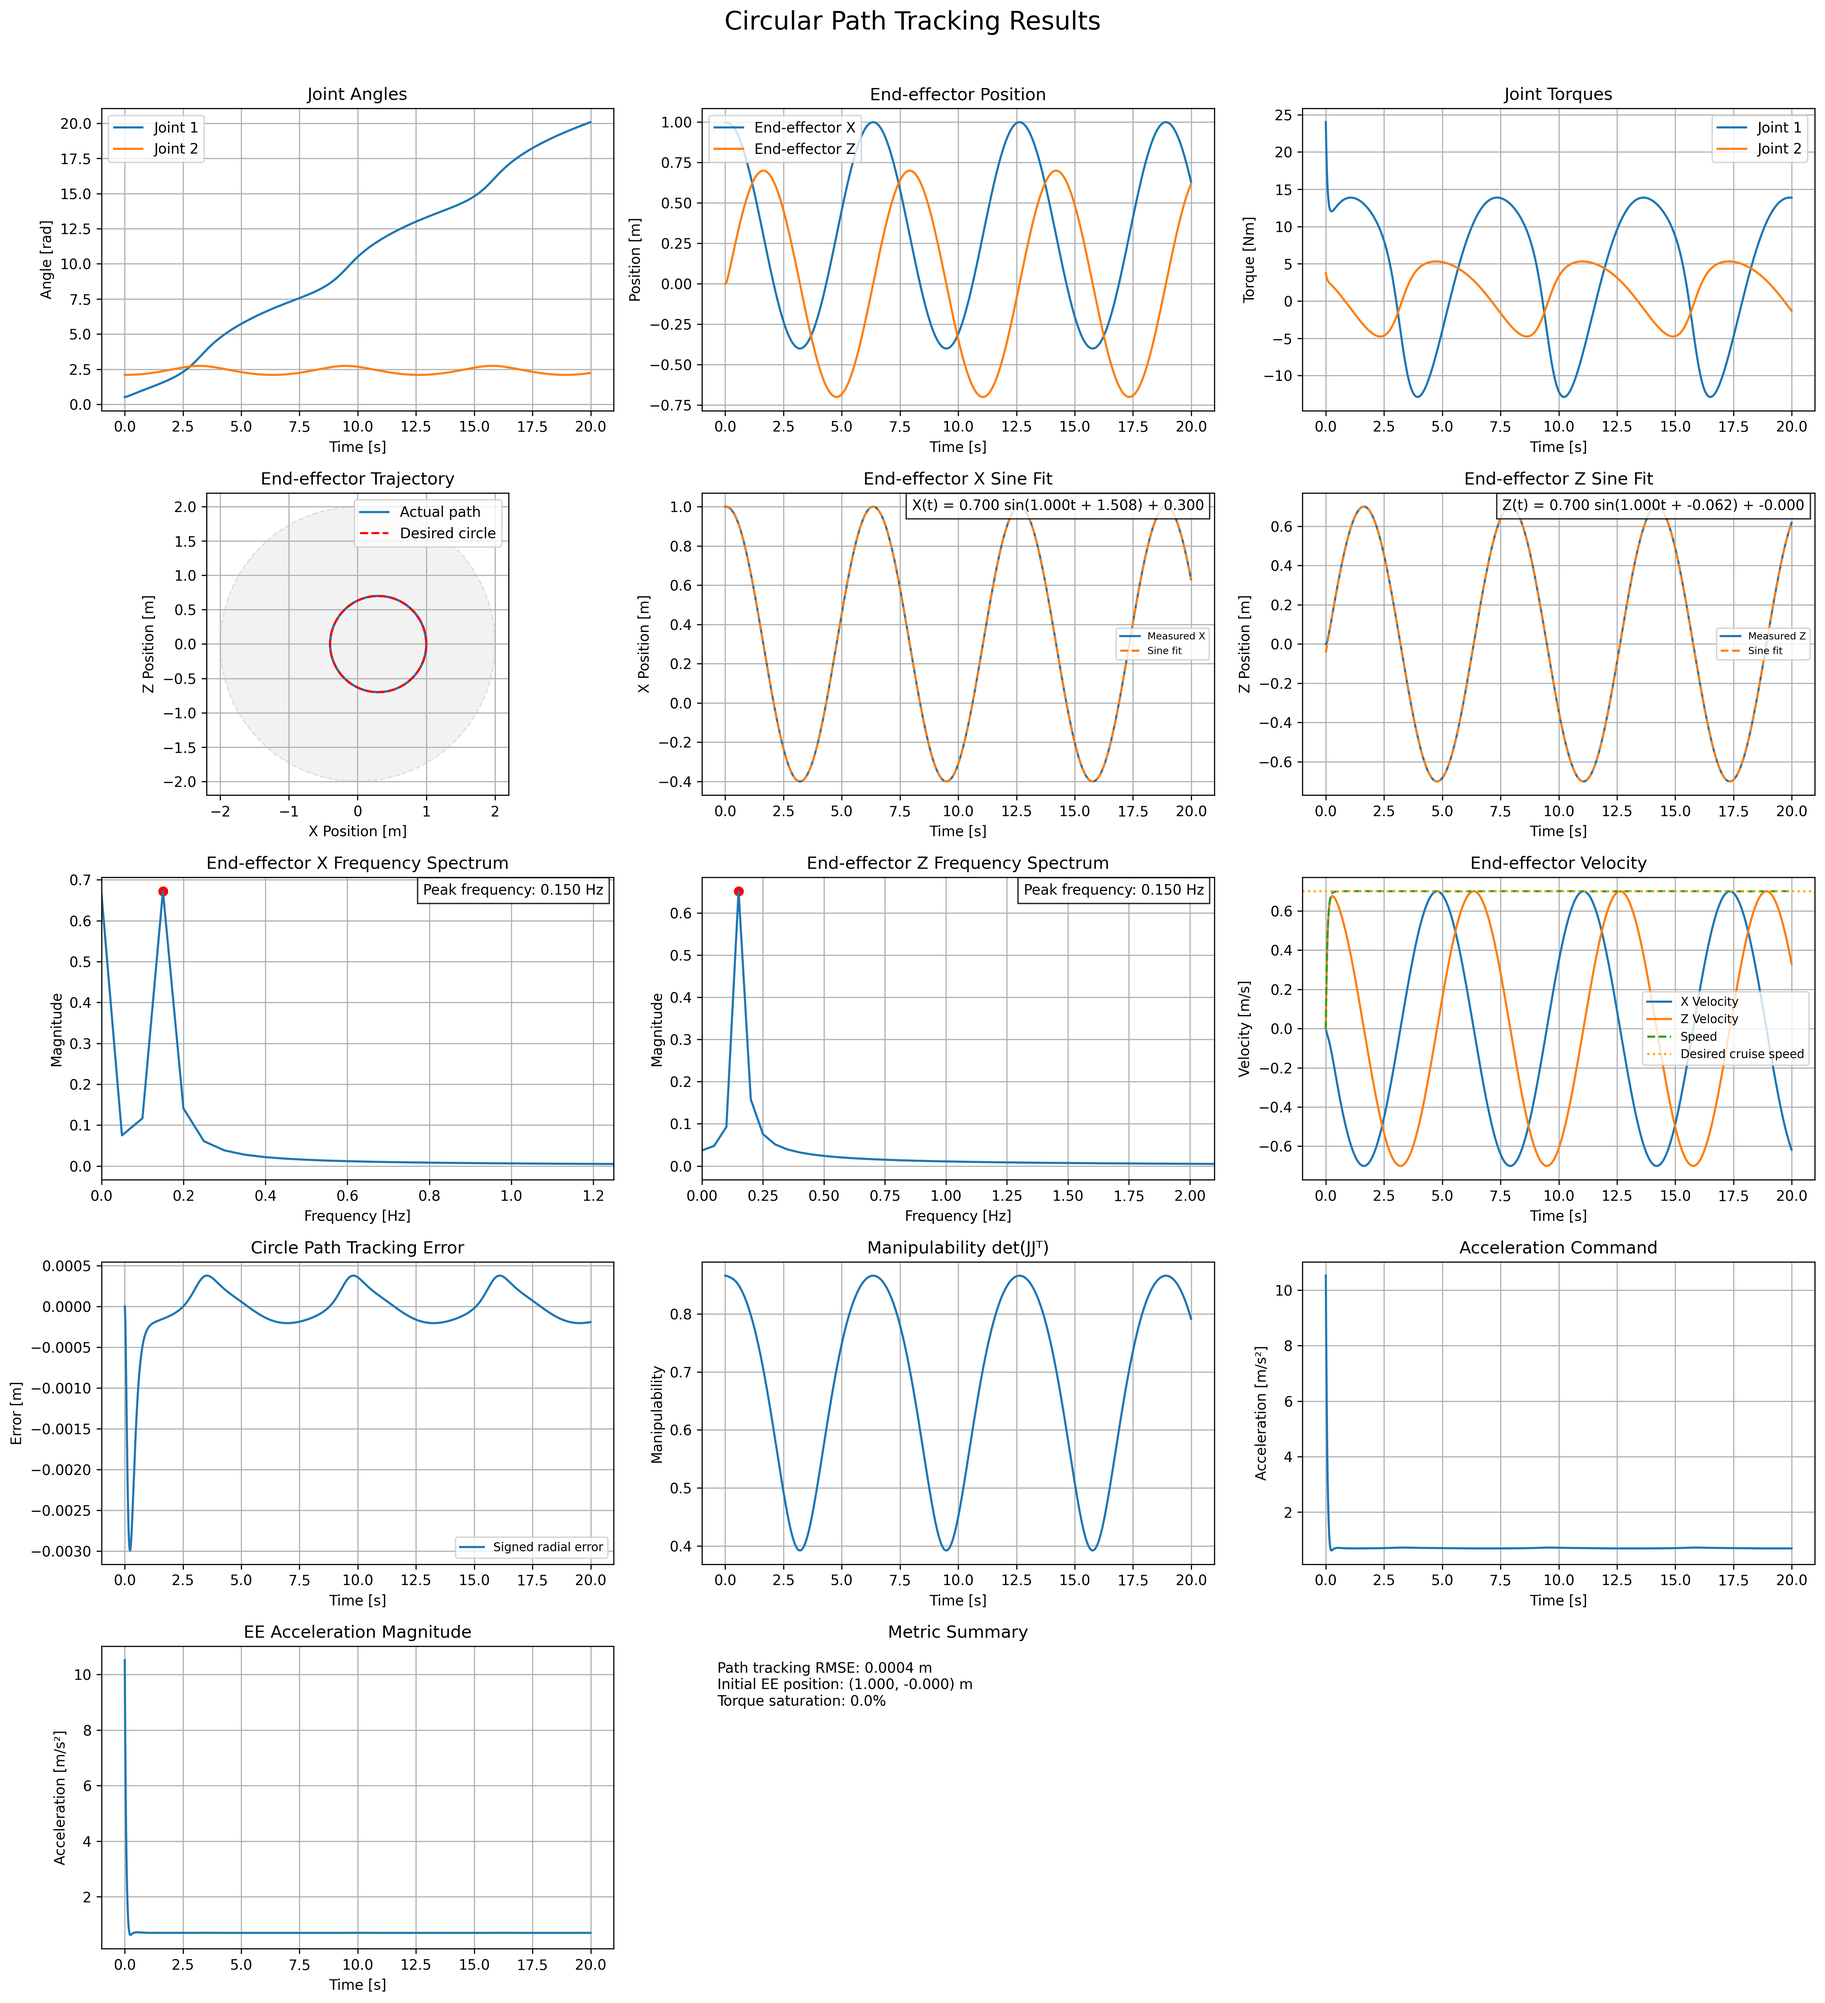
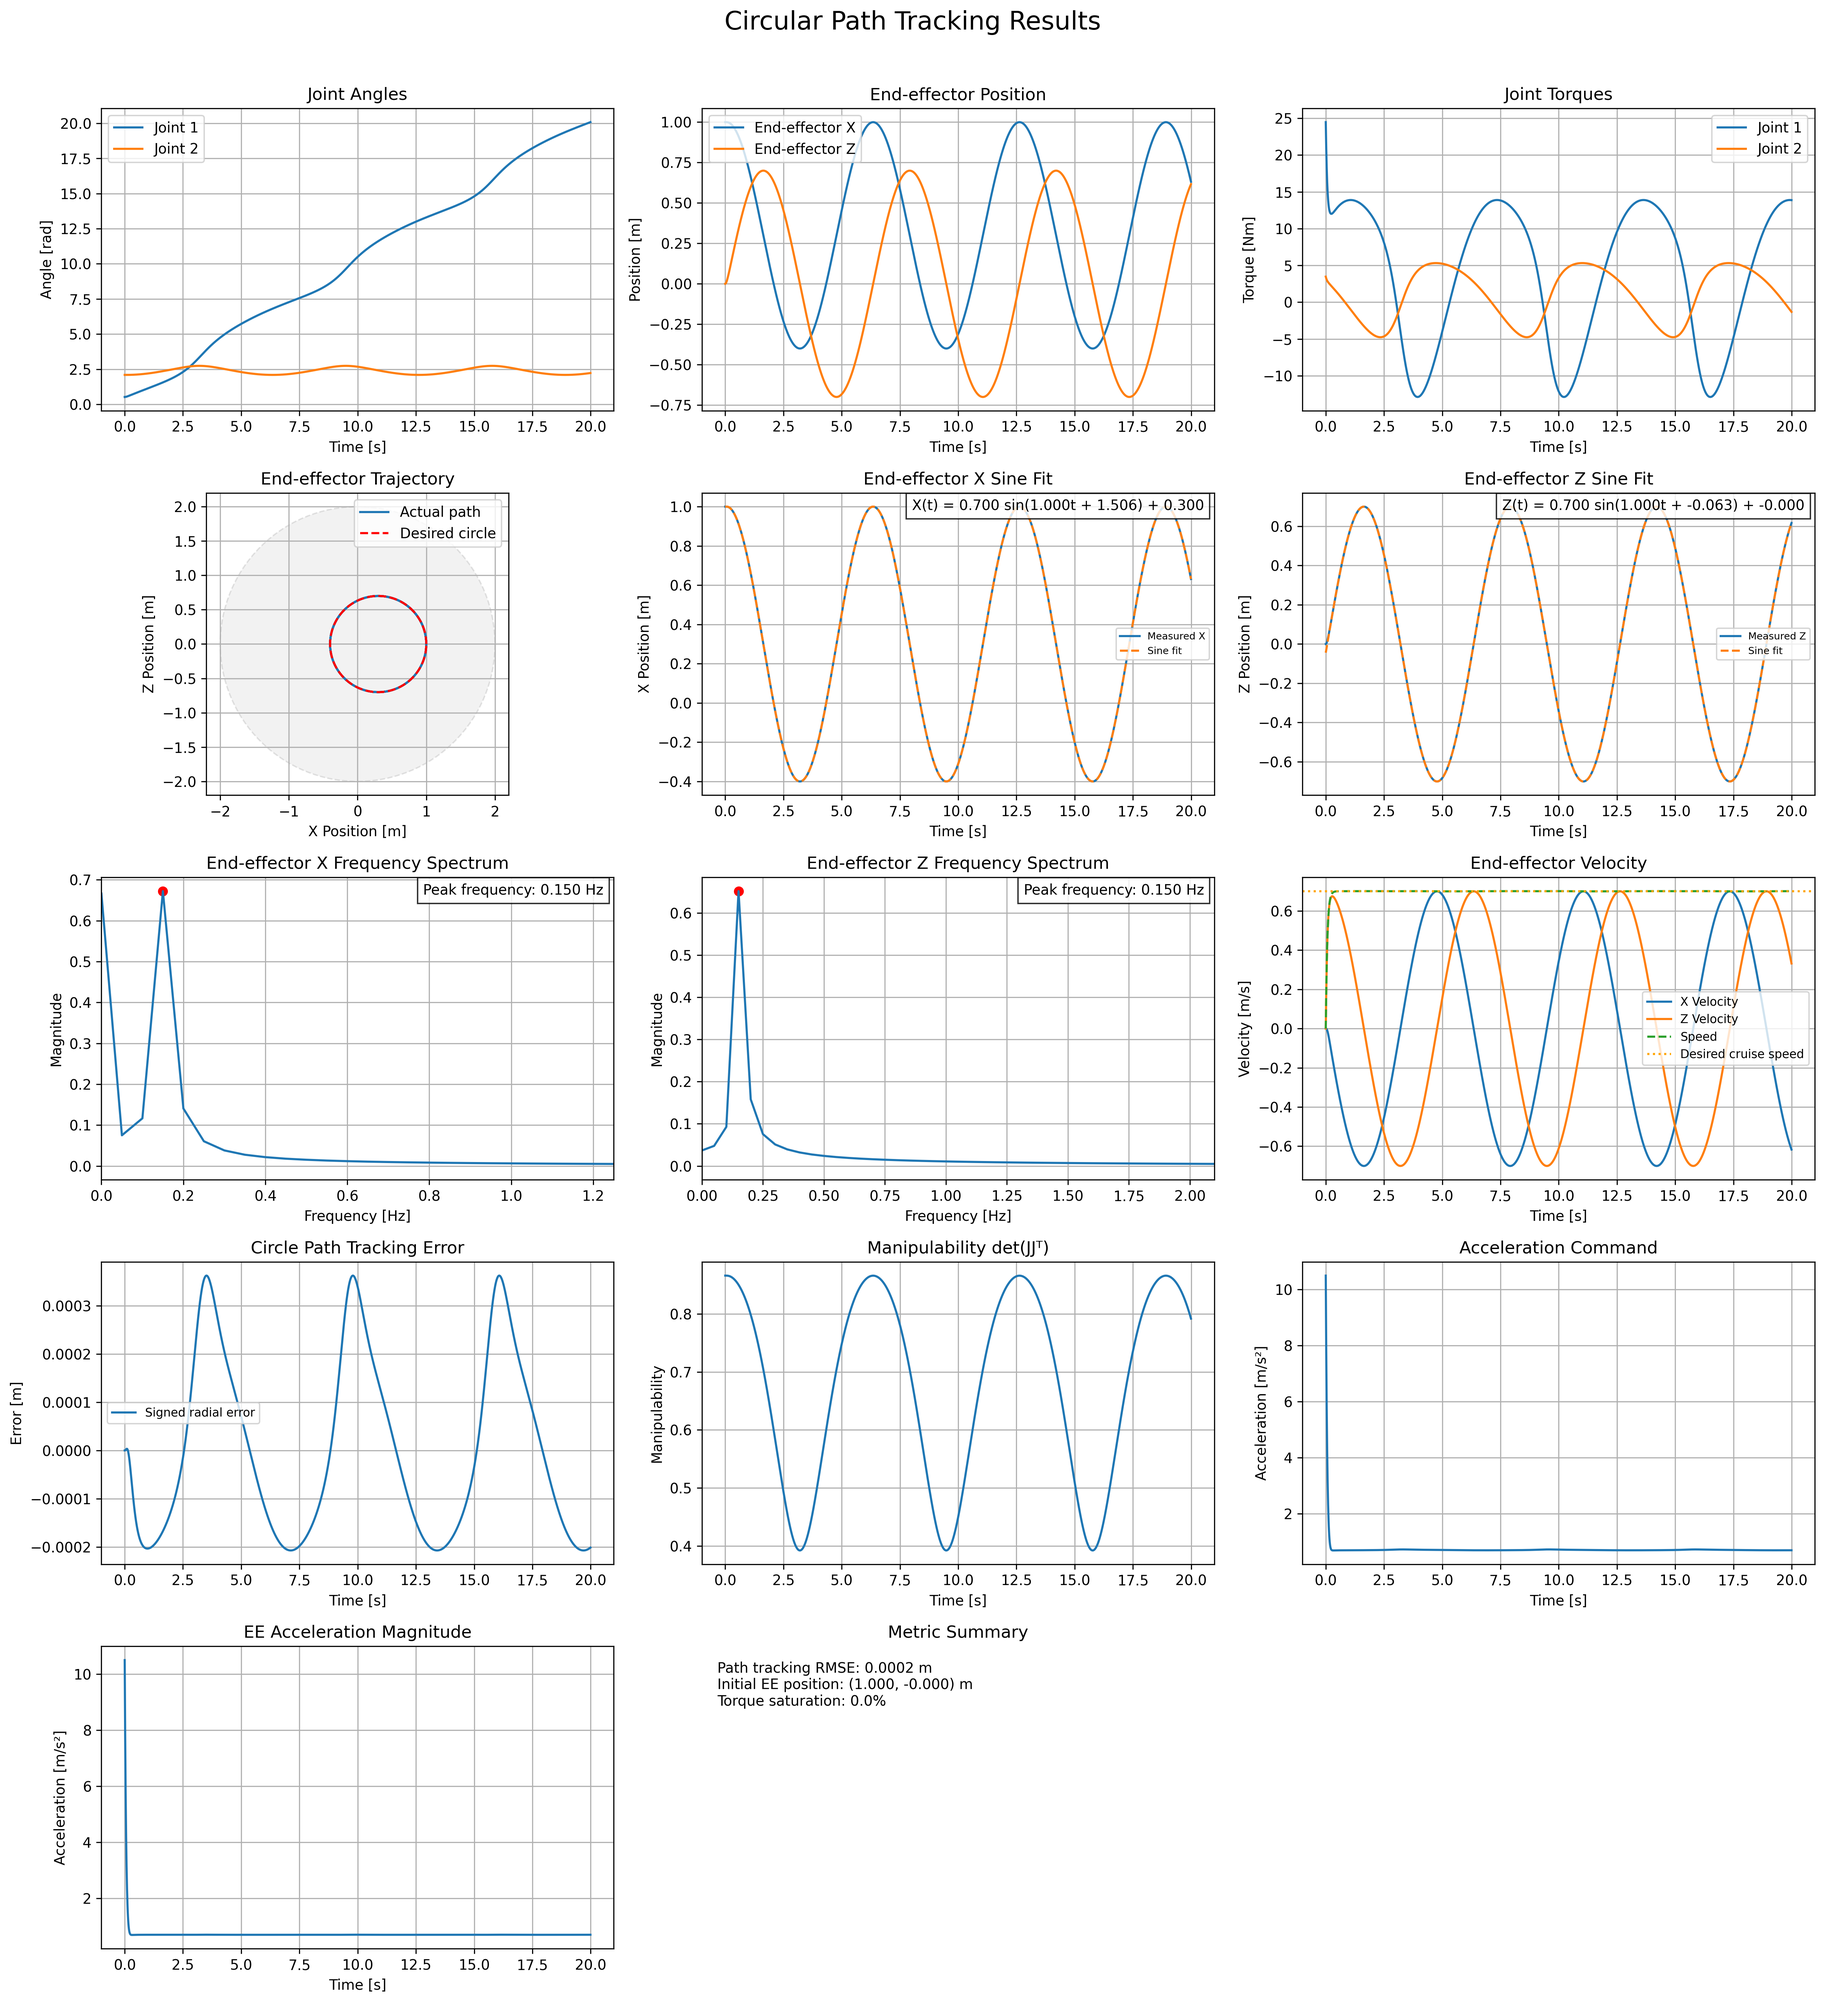
refactor: compute circle centripetal acceleration from current speed

diff --git a/src/path/CirclePath.py b/src/path/CirclePath.py
@@ -17,7 +17,6 @@ class CirclePath:
         current_position: np.ndarray,
         current_velocity,
         max_aceleration,
-        step_index: int = 0,
     ):
         # Vector from center to current_position
         vec_from_center = current_position - self.center
@@ -38,7 +37,7 @@ class CirclePath:
             tangent_vector = np.array([-unit_vec_from_center[1], unit_vec_from_center[0]]) * self.direction
             reference_velocity = tangent_vector * self.radius * self.cruise_angular_speed
 
-        reference_acceleration = -(self.cruise_angular_speed**2) * self.radius * unit_vec_from_center
+        reference_acceleration = - (np.linalg.norm(current_velocity) ** 2) / self.radius * unit_vec_from_center
 
         return reference_point, reference_velocity, reference_acceleration
 

diff --git a/src/path/PolygonPath.py b/src/path/PolygonPath.py
@@ -60,7 +60,6 @@ class PolygonPath:
         current_position: np.ndarray,
         current_velocity: np.ndarray,
         max_acceleration,
-        step_index: int = 0,
     ):
 
         if self.current_segment_idx >= len(self._segments):
@@ -74,7 +73,7 @@ class PolygonPath:
         current_segment_path = self._segments[self.current_segment_idx]
 
         # Get reference from the current LinePath segment
-        x_des, x_des_dot, x_des_ddot = current_segment_path.compute_reference(current_position, current_velocity, max_acceleration, step_index)
+        x_des, x_des_dot, x_des_ddot = current_segment_path.compute_reference(current_position, current_velocity, max_acceleration)
 
         if current_segment_path.stop_at_end:
             if current_segment_path.state == 3:

diff --git a/tests/test_paths.py b/tests/test_paths.py
@@ -9,7 +9,7 @@ from src.path.PolygonPath import PolygonPath
 def test_circle_path_reference_has_expected_position_velocity_and_acceleration():
     path = CirclePath(center=np.array([1.0, 2.0]), radius=2.0, cruise_angular_speed=0.5)
 
-    position, velocity, acceleration = path.compute_reference(np.array([3.0, 2.0]), np.zeros(2), max_aceleration=5.0)
+    position, velocity, acceleration = path.compute_reference(np.array([3.0, 2.0]), np.array([0.0, 1.0]), max_aceleration=5.0)
 
     np.testing.assert_allclose(position, [3.0, 2.0])
     np.testing.assert_allclose(velocity, [0.0, 1.0])

diff --git a/simulation/perform_simulation_step.py b/simulation/perform_simulation_step.py
@@ -21,7 +21,6 @@ def perform_simulation_step(
     control_type: str,
     path_obj,
     max_acceleration,
-    step_index: int = 0,
     save_operational_space=False,
     viewer=None,
 ):
@@ -48,7 +47,6 @@ def perform_simulation_step(
             path_obj,
             impedance_control_params,
             max_acceleration,
-            step_index=step_index,
         )
     else:
         raise ValueError(f"Unknown control_type: {control_type}")

diff --git a/src/control/acceleration_command.py b/src/control/acceleration_command.py
@@ -9,9 +9,8 @@ def path_following(
     path_obj,
     impedance_control_params: ImpedanceControlParameters,
     max_acceleration,
-    step_index: int = 0,
 ):
-    x_des, x_des_dot, x_des_ddot = path_obj.compute_reference(x, xdot, max_acceleration, step_index)
+    x_des, x_des_dot, x_des_ddot = path_obj.compute_reference(x, xdot, max_acceleration)
 
     e = (x_des - x).reshape(-1, 1)  # (2,1)
     edot = (x_des_dot - xdot).reshape(-1, 1)  # (2,1)

diff --git a/simulation/run_simulation.py b/simulation/run_simulation.py
@@ -62,7 +62,6 @@ def run_simulation(
                 control_type,
                 path_obj,
                 max_acceleration,
-                step_index=i,
                 save_operational_space=save_operational_space,
                 viewer=viewer,
             )

diff --git a/src/path/LinePath.py b/src/path/LinePath.py
@@ -35,7 +35,6 @@ class LinePath:
         current_position: np.ndarray,
         current_velocity: np.ndarray,
         max_acceleration,
-        step_index: int = 0,
     ):
 
         vec_to_point = current_position - self.start_point
